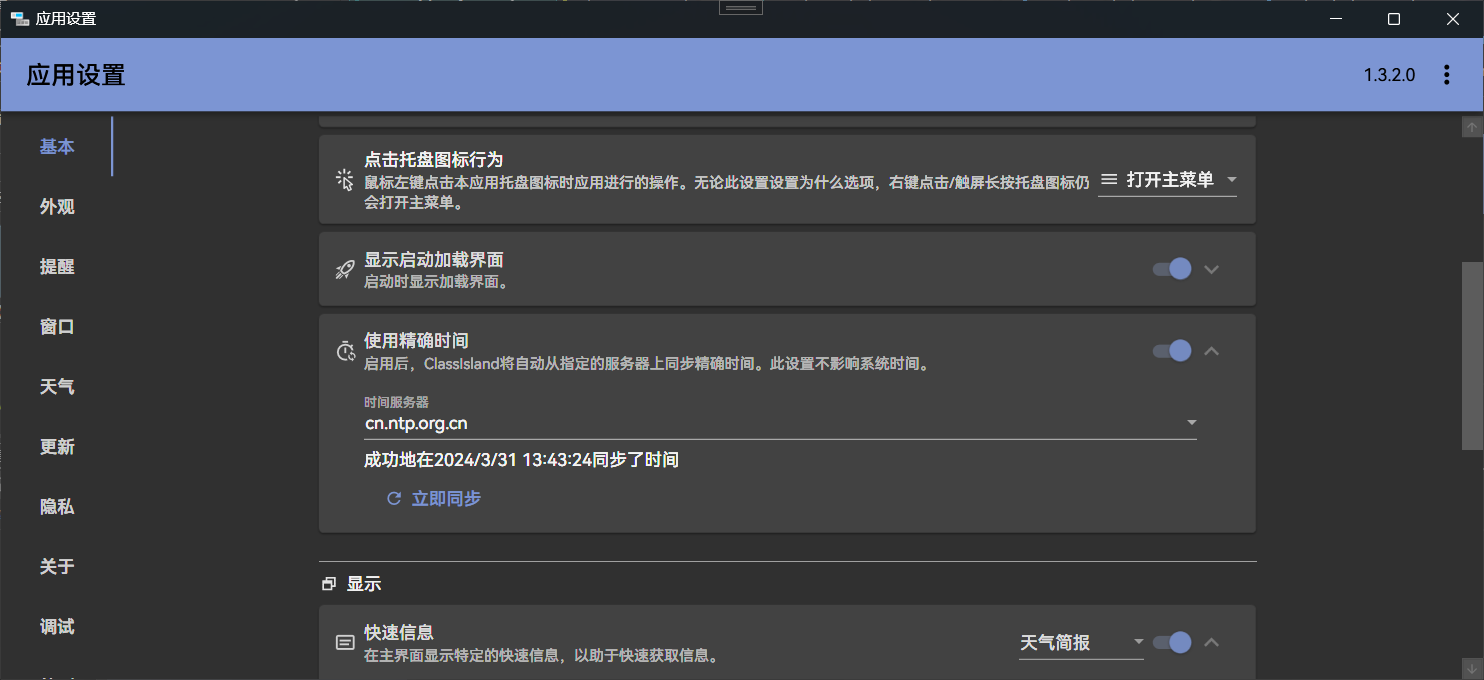
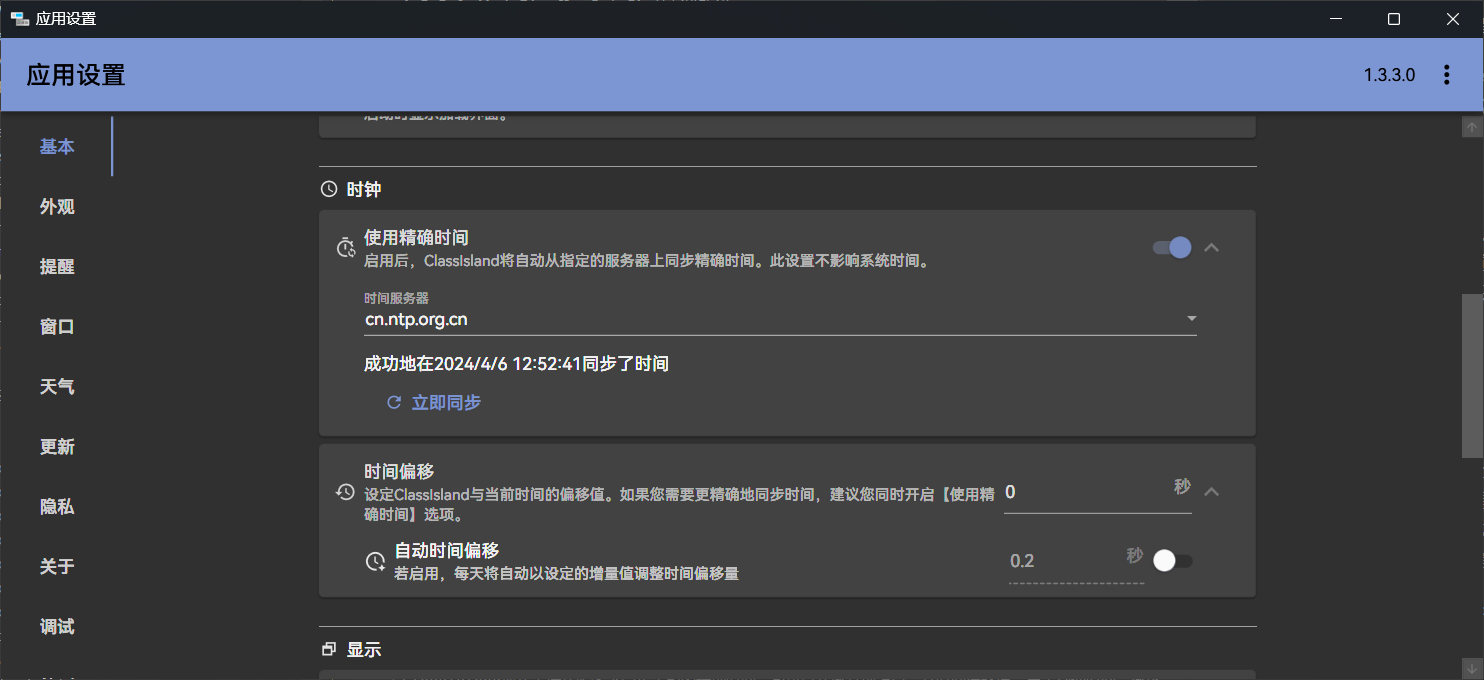
doc: 1.3.3.0 更新日志

diff --git a/ClassIsland/Assets/Documents/ChangeLog.md b/ClassIsland/Assets/Documents/ChangeLog.md
@@ -1,8 +1,26 @@
 # 新增功能
 
-1.3.2.0 (1.4-Firefly Beta2) 的新增功能
+1.3.1.0 ~ 1.3.3.0 (1.4-Firefly Beta 1~3) 的新增功能
 
 > **您当前正在使用的是 1.4-Firefly 的测试版本，可能包含未完善和不稳定的功能。**
+
+## 朗读提醒内容
+
+在发出提醒时，ClassIsland可以大声读出提醒的内容。此功能默认禁用，您可以前往[【设置】->【提醒】->【更多选项】](ci://app/settings/notification)调整相关设置。
+
+## 增强提醒
+
+在发出提醒时，ClassIsland会全屏播放提醒特效，并且可以播放提示音效，增强提醒效果。提醒音效默认禁用，您可以自定义要播放的提示音效。您还可以给每个提醒来源单独设置音效。
+
+您可以在[【设置】->【提醒】->【更多选项】](ci://app/settings/notification)调整相关设置。
+
+![1712379341205](pack://application:,,,/ClassIsland;component/Assets/Documents/image/ChangeLog/1712379341205.png)
+
+## 精确时间
+
+ClassIsland现在支持从服务器同步当前的精确时间。也可以在此基础上自定义时间偏移值，用于微调时间。此外，ClassIsland还支持在每天以设定的增量值调整时间偏移值。您可以前往[【设置】->【基本】->【时钟】](ci://app/settings/general)调整相关设置。
+
+![1711863876445](pack://application:,,,/ClassIsland;component/Assets/Documents/image/ChangeLog/1711863876445.png)
 
 ## 集控
 
@@ -16,25 +34,36 @@
 
 ![1711241942861](pack://application:,,,/ClassIsland;component/Assets/Documents/image/ChangeLog/1711241942861.png)
 
-## 从NTP服务器获取当前时间
 
-ClassIsland现在支持从服务器同步当前的精确时间。您可以前往[【设置】->【基本】](ci://app/settings/general)调整相关设置。
-
-![1711863876445](pack://application:,,,/ClassIsland;component/Assets/Documents/image/ChangeLog/1711863876445.png)
-
-## 朗读提醒内容
-
-在发出提醒时，ClassIsland可以大声读出提醒的内容。此功能默认禁用，您可以前往[【设置】->【提醒】](ci://app/settings/notification)调整相关设置。
-
-![1711241957988](pack://application:,,,/ClassIsland;component/Assets/Documents/image/ChangeLog/1711241957988.png)
 
 ***
 
 
+# 1.3.3.0
+
+> 1.4 - Firefly 测试版，可能包含未完善和不稳定的功能。
+
+## 新增功能
+
+- 【提醒】全屏提醒强调特效 
+- 【提醒】提醒强调音效 [#41](https://github.com/HelloWRC/ClassIsland/issues/41)
+- 【提醒】按提醒来源分别设置语音、强调特效和音效开关 
+- 【提醒】允许禁用准备上课提醒文字 [#64](https://github.com/HelloWRC/ClassIsland/issues/64)
+- 【时钟】设置时间偏移值 [#55](https://github.com/HelloWRC/ClassIsland/issues/55)
+- 【时钟】按增量自动调整时间偏移值 [#58](https://github.com/HelloWRC/ClassIsland/issues/58)
+
+## 优化与Bug修复
+- 【档案编辑】修复在编辑科目时，在编辑状态下添加科目导致科目信息丢失的问题 [#62](https://github.com/HelloWRC/ClassIsland/issues/62)
+- 【提醒】修复了即将上课时，当倒计时为0时数字不显示的问题。
+- 【UI】优化上下课提醒设置界面。
+- 【UI】优化时钟设置界面。
+
+***
+
 
 # 1.3.2.0
 
-> 1.4-Firefly 测试版，可能包含未完善和不稳定的功能。
+> 1.4 - Firefly 测试版，可能包含未完善和不稳定的功能。
 
 ## 新增功能
 - 【应用】从NTP服务器获取当前时间
@@ -50,7 +79,7 @@ ClassIsland现在支持从服务器同步当前的精确时间。您可以前往
 
 # 1.3.1.0
 
-> 1.4-Firefly 测试版，可能包含未完善和不稳定的功能。
+> 1.4 - Firefly 测试版，可能包含未完善和不稳定的功能。
 
 ## 新增功能
 - 【集控】手动加入集控